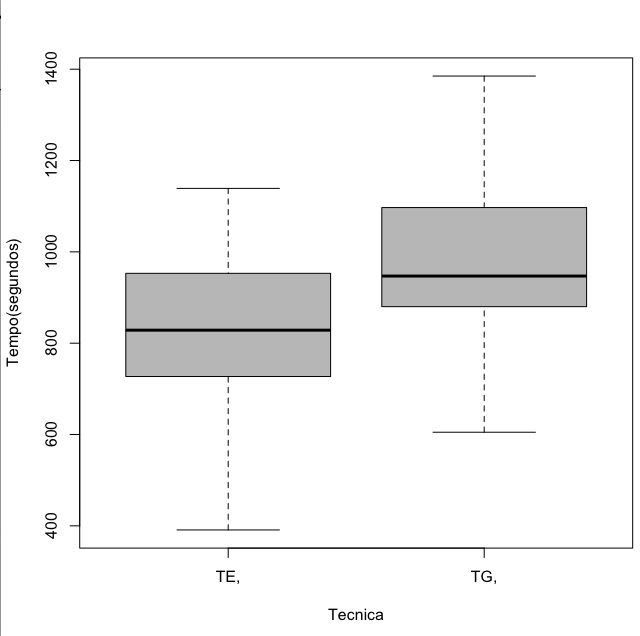
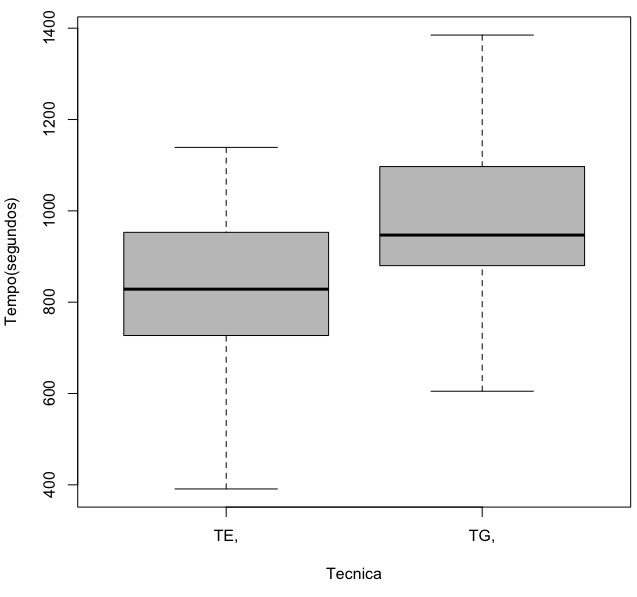
mais texto

diff --git a/sections/amostra.tex b/sections/amostra.tex
@@ -8,9 +8,7 @@ Nesta seção, nós apresentamos um estudo descritivo dos dados da amostra. Ness
 \label{sec:estudo}
 
 %falar sobre os gráficos e medidas que vamos usar
-
-
-
+Por meio da linguagem R, nós geramos três gráficos que usamos no nosso estudo. Primeiro, usamos o Q-Q Plot. Esse gráfico permite ilustrar a normalidade dos resíduos dos dados da amostra~\cite{Wilk1968}. Segundo, usamos o gráfico Boxplot para ilustrar a mediana do tempo levado para executar os testes considerando cada uma das técnicas (TE e TG), bem como onde estão localizados 50\% dos valores mais prováveis e os valores extremos. Além disso, usamos o gráfico Dotplot para ilustrar todas as variáveis, ou seja, nós mostramos o tempo de execução que cada estudante precisou para cada feature, usando cada uma das duas técnicas.
 
 \subsection{Normalidade dos dados}
 \label{sec:normalidade}
@@ -28,6 +26,8 @@ Para demonstrar a normalidade dos resíduos dos dados da nossa amostra, nós usa
 Nesse contexto, aplicando o teste Shapiro-Wilk, nós obtivemos um \emph{p-value} igual a 0,1456, que é maior que o nosso nível de significância 0,05. Portanto, 1 não pode ser rejeitada, o que traz evidências de que os resíduos dos dados da nossa amostra provém de uma população com distribuição normal. Além disso, esse teste é baseado na estatística W~\cite{estatisticaw}. Nós obtemos um W igual a 0,9546, o que é maior que o valor 0,935 dado na tabela com os valores críticos da estatística W. Desse modo, o nosso W sendo maior que o W fornecido pela tabela\footnote{Tabela pode ser obtida em: https://github.com/rcaa/ProjetoEstatistica2013/blob/master/images/shapiro-wilk.pdf}, temos fortes evidências de normalidade dos resíduos dos dados da nossa amostra.
 
 Esse teste de aderência pode ser interpretado por um gráfico Quantile-Quantile Plot ou Q-Q Plot. Esse gráfico ilustra se os resíduos dos dados de uma amostra provêm de uma população com distribuição normal. Além disso, ele exibe os \emph{quantiles} da amostra contra os \emph{quantiles} teóricos~\cite{Wilk1968}. Com isso, é possível visualizar a aderência dos resíduos dos dados à Normal. Na Figura~\ref{fig:grafico1}, nós ilustramos a nossa análise. A reta que cruza o gráfico representa a Normal. Percebe-se que os nossos dados estão muito próximos dessa reta, com exceção somente de 4 dos 36 pontos. Portanto, o gráfico Q-Q Plot também confirma que nossa amostra é Normal.
+
+% EXPLICAR OS PONTOS ABERRANTES
 
 \begin{figure*}[t]
 	\caption{Q-Q Plot}

diff --git a/sections/metodologia.tex b/sections/metodologia.tex
@@ -32,3 +32,7 @@ Em que (1) é a hipótese nula e (2) é a hipótese alternativa. Portanto, a equ
 %\end{equation}
 
 %Em que (1) é a hipótese nula e (2) é a hipótese alternativa. Portanto, a equação 1 representa a hipótese de o número de CRs terminadas usando TE seja maior ou igual ao resultado usando TG, enquanto que a equação 2 representa a situação inversa, ou seja, o número de CRs terminadas com TE é menor que com TG.
+
+Definida a hipótese, nós queremos investigar estatisticamente o desempenho dos estudantes com relação ao tempo de execução da suite de testes. Isso permite concluirmos qual é a melhor estratégia (TE ou TG) para execução de testes em Linhas de Produto de Software num ambiente de desenvolvimento de uma organização com tamanho médio.
+
+No nosso estudo estatístico, nós usamos Análise de Variância (ANOVA)~\cite{Wohlin2000} para testar nossa hipótese e verificar se a tendência de que TE é melhor que TG, que foi observada nas amostras, era significante, de fato. Nesse contexto, escolhemos o ANOVA para comparar o efeito do tratamento às variáveis. Nós usamos o \emph{Tukey Test of Additivity} para verificar se o nosso modelo linear era aditivo~\cite{citeulike:2905018}. Além disso, como foi mostrado na Seção~\ref{sec:normalidade}, nós usamos o teste Shapiro-Wilk para verificar normalidade. Depois de garantir essas propriedades, nós executamos o teste ANOVA e alcançamos um \emph{p-value} para o fator da estratégia de aproximadamente 0,0001, o que nos dá evidência significante de que a estratégia TG pode reduzir o tempo de execução das suites de testes.

diff --git a/sections/resultados.tex b/sections/resultados.tex
@@ -13,16 +13,16 @@
 %    \label{fig:grafico2}
 %\end{figure}
 
-%\begin{figure}[t]
-%    \centering
-%    \includegraphics[width=0.6\textwidth]{images/grafico3.png}
-%    \caption{}
-%    \label{fig:grafico3}
-%\end{figure}
+\begin{figure}[t]
+    \centering
+    \includegraphics[width=0.6\textwidth]{images/boxplot.png}
+    \caption{}
+    \label{fig:boxplot}
+\end{figure}
 
-%\begin{figure}[t]
-%    \centering
-%    \includegraphics[width=0.6\textwidth]{images/dotplot.png}
-%    \caption{}
-%    \label{fig:dotplot}
-%\end{figure}
+\begin{figure}[t]
+    \centering
+    \includegraphics[width=0.6\textwidth]{images/dotplot.png}
+    \caption{}
+    \label{fig:dotplot}
+\end{figure}
